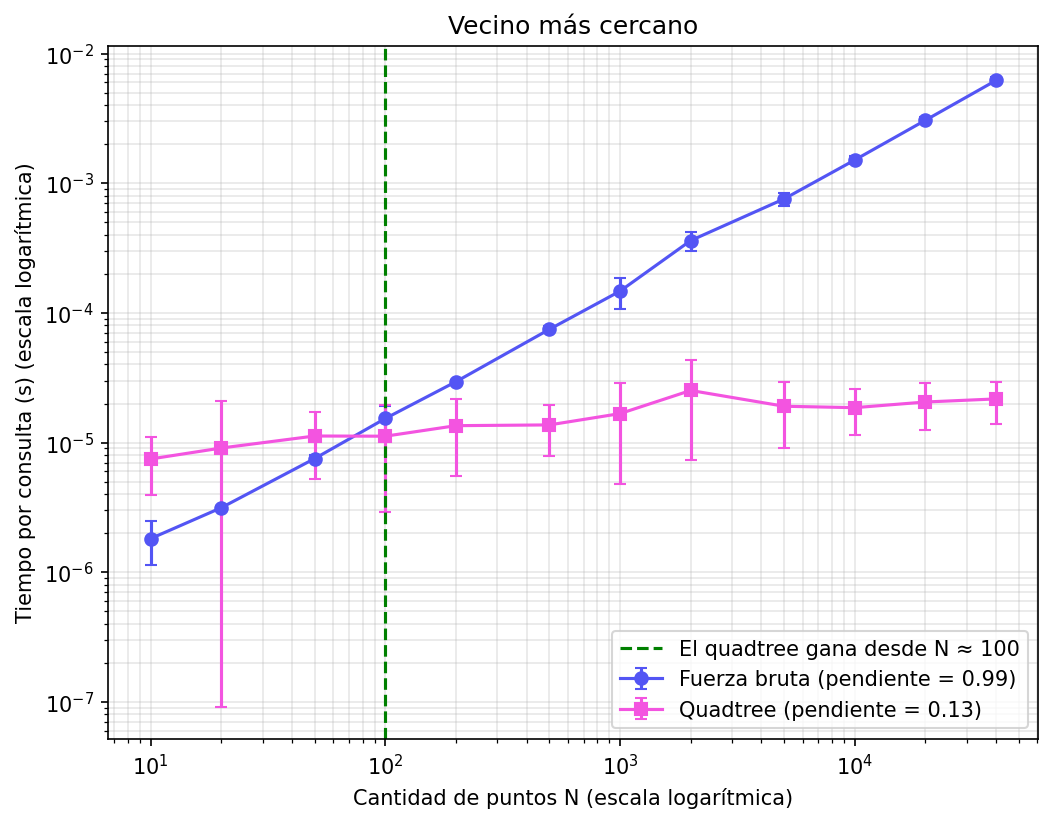
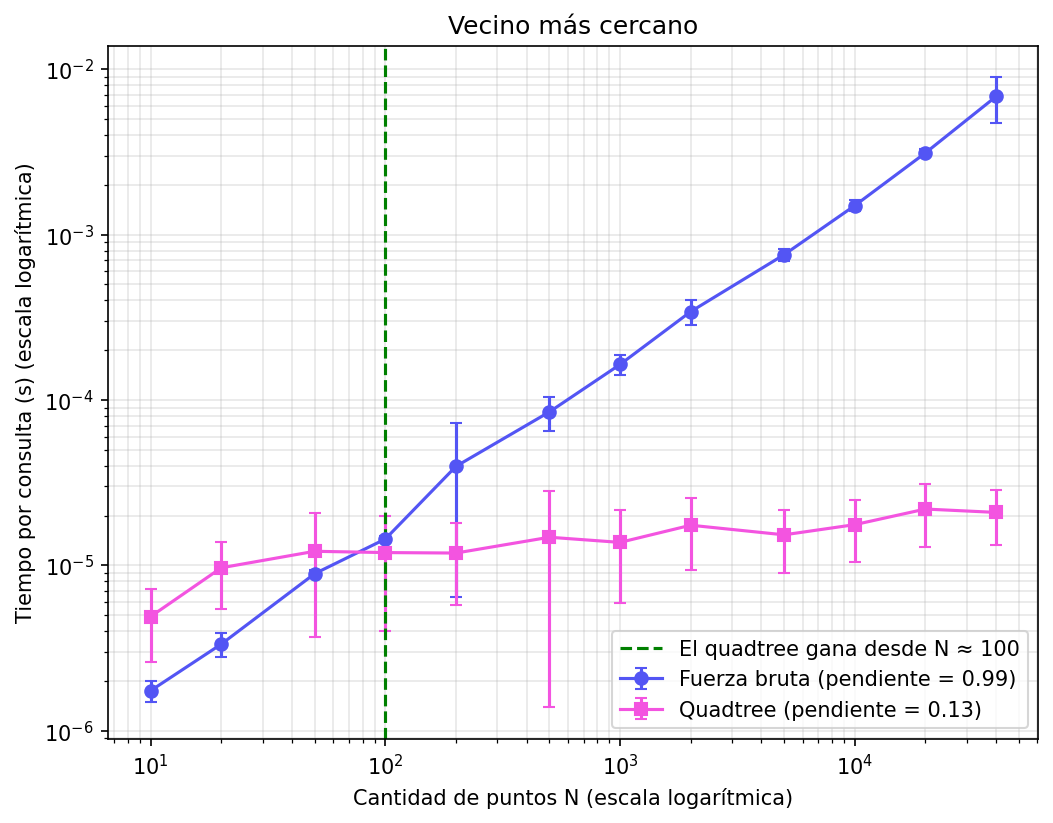
Corrección con perdiente

diff --git a/Laboratorio 4/analisis.py b/Laboratorio 4/analisis.py
@@ -5,12 +5,12 @@ import numpy as np
 import matplotlib.pyplot as plt
 import Quadtree
 
-TAMANO = 40000                  # ciudad de 20000 x 20000 metros
+TAMANO = 40000                  # ciudad de 40000 x 40000 metros
 RADIO = 500                     # Las búsquedas por radio serán de 500 metros
 DISPERSION = 1500               # metros (desviación estándar de los barrios)
 TAMANOS = [10, 20, 50, 100, 200, 500, 1000, 2000, 5000, 10000, 20000,40000]   # valores de N (número de puntos)
 CONSULTAS = 200                 # consultas por cada N (se promedia)
-REPETICIONES = 50               # Número de repeticiones de cada experimento
+REPETICIONES = 50               # Número de repeticiones de en el experimento de inserción
 
 #  FUNCIONES AUXILIARES 
 
@@ -77,6 +77,10 @@ def pendiente(tamanos_n, tiempos):     # Pendiente de la recta en escala log-log
     logs_t = [np.log10(t) for t in tiempos]
     return np.polyfit(logs_n, logs_t, 1)[0]  # Calcula la pendiente logarítmica con polyfit
 
+def pendiente_profundidad(tamanos_n, profundidades):   # Niveles que sube la profundidad cada vez que N se multiplica por 10
+    logs_n = [np.log10(n) for n in tamanos_n]          # Solo x es logarítmico, y es lineal
+    return np.polyfit(logs_n, profundidades, 1)[0]
+
 def barras_error(medias_, desvs):
     # En escala log no puede haber barras que lleguen a 0 o negativo: se limita la inferior
     inferior = [min(d, m * 0.99) for m, d in zip(medias_, desvs)]
@@ -129,11 +133,14 @@ def graficar_loglog(tamanos_n, bruta, arbol, titulo, ylabel, archivo):
 
 def graficar_profundidad(tamanos_n, uniforme, realista, archivo):
     # uniforme y realista son listas de (media, desviación)
+    m_uniforme = pendiente_profundidad(tamanos_n, medias(uniforme))
+    m_realista = pendiente_profundidad(tamanos_n, medias(realista))
+
     figura, eje = plt.subplots(figsize=(9, 6))
     eje.errorbar(tamanos_n, medias(uniforme), yerr=desviaciones(uniforme), fmt="o-", color="green",
-                 capsize=3, label="Uniforme")
+                 capsize=3, label=f"Uniforme (pendiente = {m_uniforme:.2f})")
     eje.errorbar(tamanos_n, medias(realista), yerr=desviaciones(realista), fmt="s-", color="purple",
-                 capsize=3, label="Realista (barrios)")
+                 capsize=3, label=f"Realista (pendiente = {m_realista:.2f})")
     eje.set_xscale("log")
 
     # Valor medio escrito sobre cada punto
